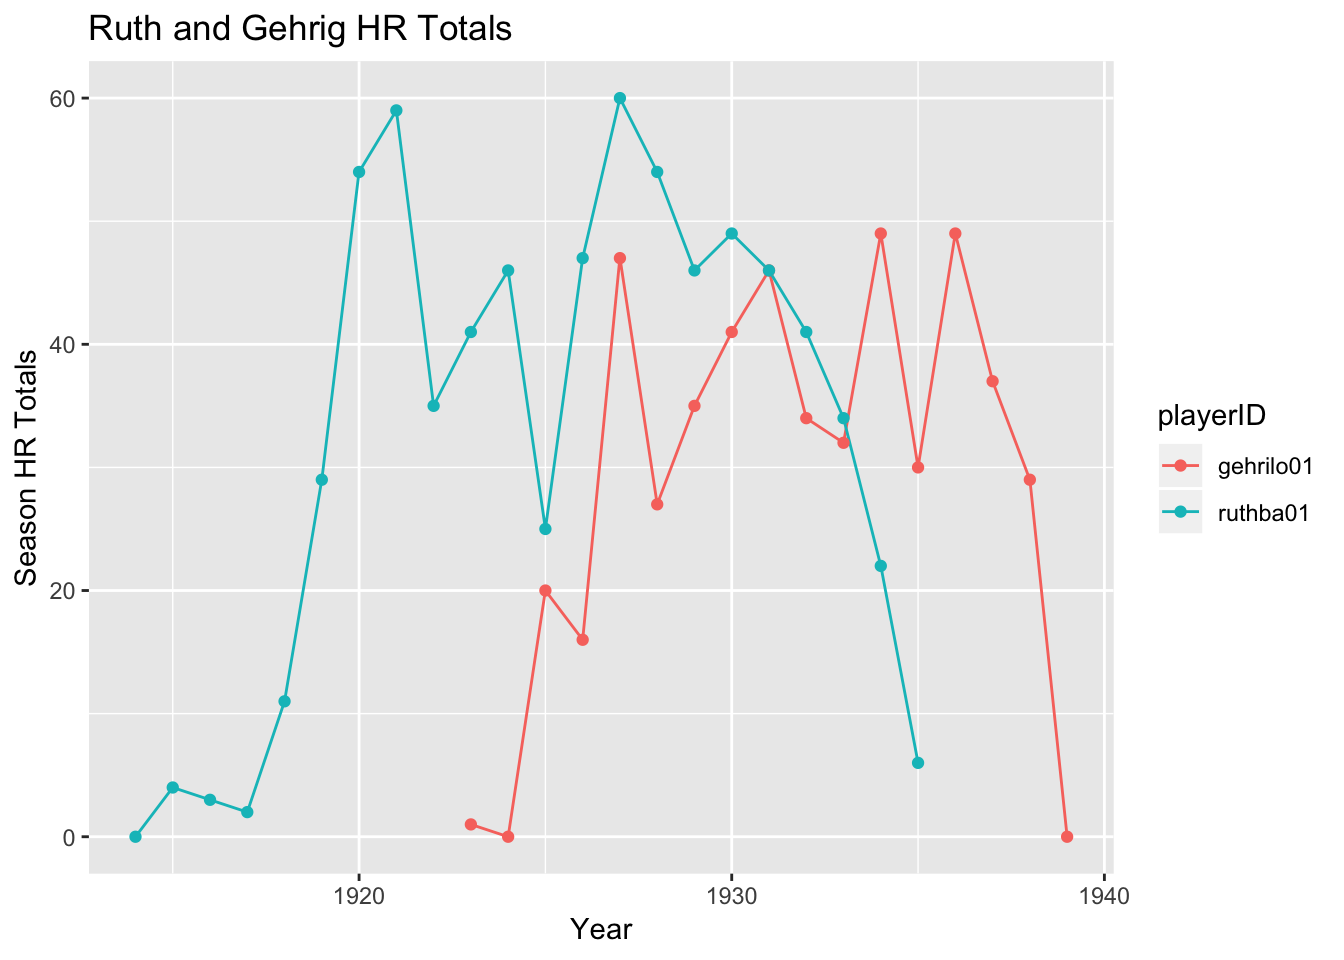
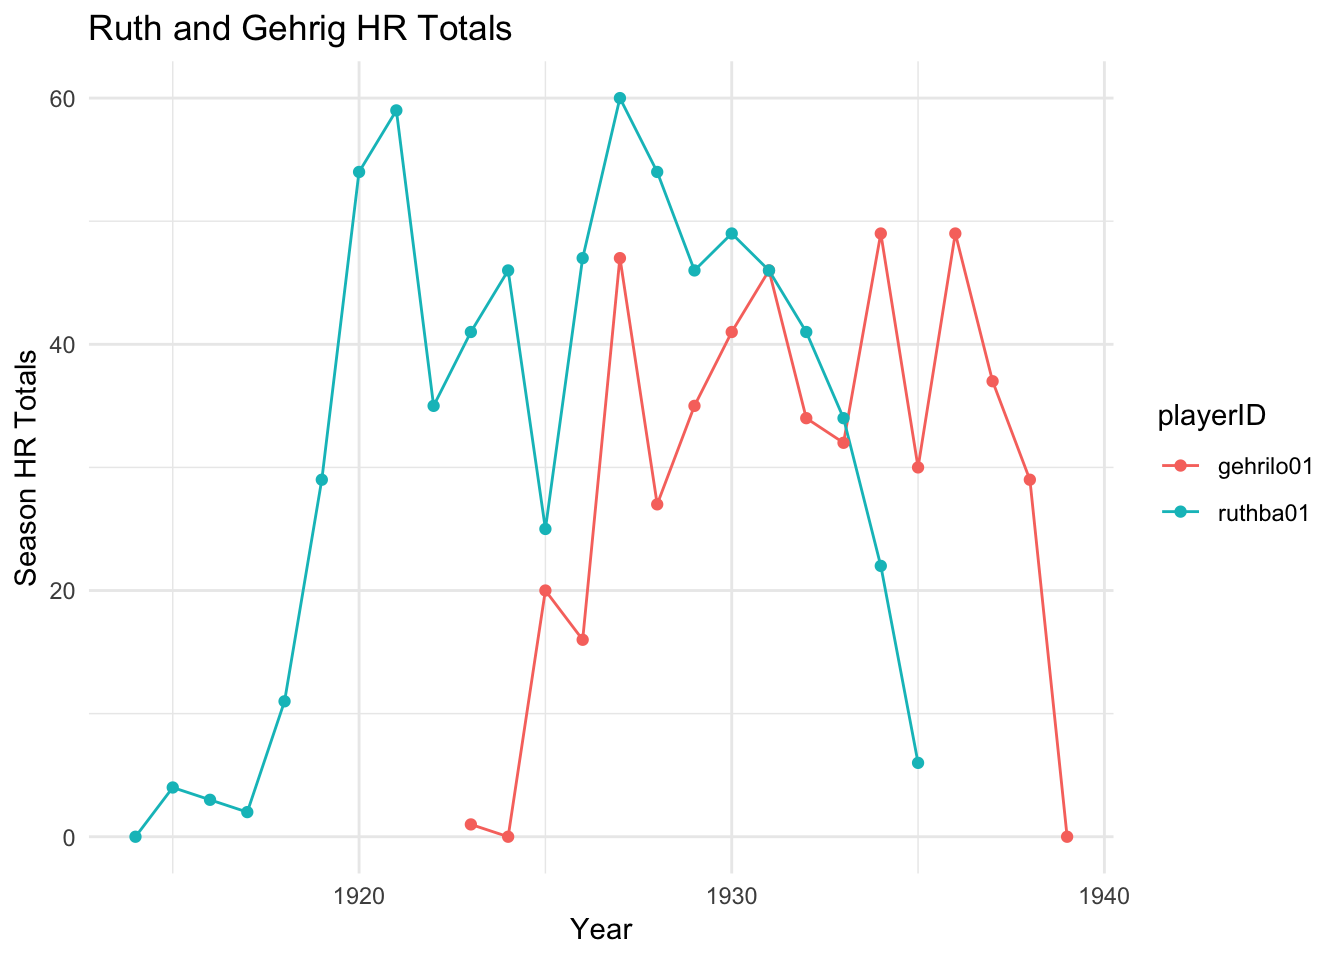
fix chapter 10

diff --git a/grouping-in-ggplot.html b/grouping-in-ggplot.html
@@ -209,7 +209,8 @@ code > span.in { color: #60a0b0; font-weight: bold; font-style: italic; } /* Inf
 <p>Note the pipe symbol used in the filter for an “or”, and also that we have included the playerID this time to distinguish the players.</p>
 <p>We can plot the homerun totals for the players separately, in one plot, in the following way:</p>
 <div class="sourceCode"><pre class="sourceCode r"><code class="sourceCode r"><span class="kw">ggplot</span>() <span class="op">+</span>
-<span class="st">  </span><span class="kw">geom_line</span>(<span class="dt">data =</span> ruthGehrig,<span class="kw">aes</span>(<span class="dt">x=</span>yearID,<span class="dt">y=</span>HR,<span class="dt">group=</span>playerID))</code></pre></div>
+<span class="st">  </span><span class="kw">geom_line</span>(<span class="dt">data =</span> ruthGehrig,<span class="kw">aes</span>(<span class="dt">x=</span>yearID,<span class="dt">y=</span>HR,<span class="dt">group=</span>playerID)) <span class="op">+</span>
+<span class="st">  </span><span class="kw">theme_minimal</span>()</code></pre></div>
 <p><img src="bookdown-demo_files/figure-html/unnamed-chunk-37-1.png" width="672" /></p>
 <p>Note the use of <strong>group</strong> in the aesthetics.</p>
 <p>We could now distinguish the two line graphs with color (and add point and labels):</p>
@@ -218,7 +219,8 @@ code > span.in { color: #60a0b0; font-weight: bold; font-style: italic; } /* Inf
 <span class="st">  </span><span class="kw">geom_point</span>(<span class="dt">data =</span> ruthGehrig,<span class="kw">aes</span>(<span class="dt">x=</span>yearID,<span class="dt">y=</span>HR,<span class="dt">group=</span>playerID,<span class="dt">color=</span>playerID)) <span class="op">+</span>
 <span class="st">  </span><span class="kw">ggtitle</span>(<span class="st">&quot;Ruth and Gehrig HR Totals&quot;</span>) <span class="op">+</span>
 <span class="st">  </span><span class="kw">xlab</span>(<span class="st">&quot;Year&quot;</span>) <span class="op">+</span>
-<span class="st">  </span><span class="kw">ylab</span>(<span class="st">&quot;Season HR Totals&quot;</span>)</code></pre></div>
+<span class="st">  </span><span class="kw">ylab</span>(<span class="st">&quot;Season HR Totals&quot;</span>) <span class="op">+</span>
+<span class="st">  </span><span class="kw">theme_minimal</span>()</code></pre></div>
 <p><img src="bookdown-demo_files/figure-html/unnamed-chunk-38-1.png" width="672" /></p>
 <p>Note that <strong>color</strong> is within the aesthetics and is set to a column name.</p>
 <p>To change the color scheme, we can add a color scale;</p>
@@ -228,7 +230,8 @@ code > span.in { color: #60a0b0; font-weight: bold; font-style: italic; } /* Inf
 <span class="st">  </span><span class="kw">ggtitle</span>(<span class="st">&quot;Ruth and Gehrig HR Totals&quot;</span>) <span class="op">+</span>
 <span class="st">  </span><span class="kw">xlab</span>(<span class="st">&quot;Year&quot;</span>) <span class="op">+</span>
 <span class="st">  </span><span class="kw">ylab</span>(<span class="st">&quot;Season HR Totals&quot;</span>) <span class="op">+</span>
-<span class="st">  </span><span class="kw">scale_color_manual</span>(<span class="dt">values=</span><span class="kw">c</span>(<span class="st">&quot;#003f5c&quot;</span>,<span class="st">&quot;#bc5090&quot;</span>))</code></pre></div>
+<span class="st">  </span><span class="kw">scale_color_manual</span>(<span class="dt">values=</span><span class="kw">c</span>(<span class="st">&quot;#003f5c&quot;</span>,<span class="st">&quot;#bc5090&quot;</span>)) <span class="op">+</span>
+<span class="st">  </span><span class="kw">theme_minimal</span>()</code></pre></div>
 <p><img src="bookdown-demo_files/figure-html/unnamed-chunk-39-1.png" width="672" /></p>
 
 </div>
